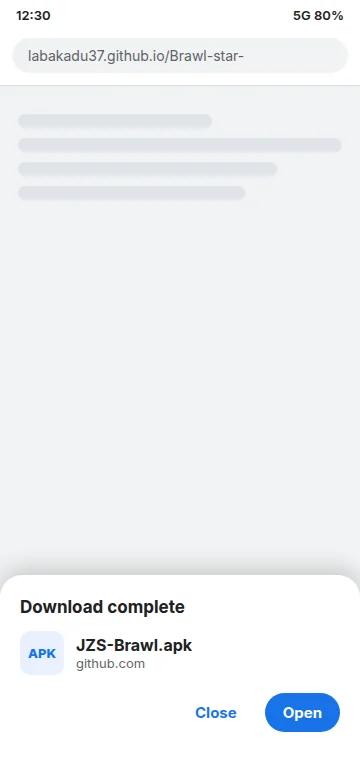
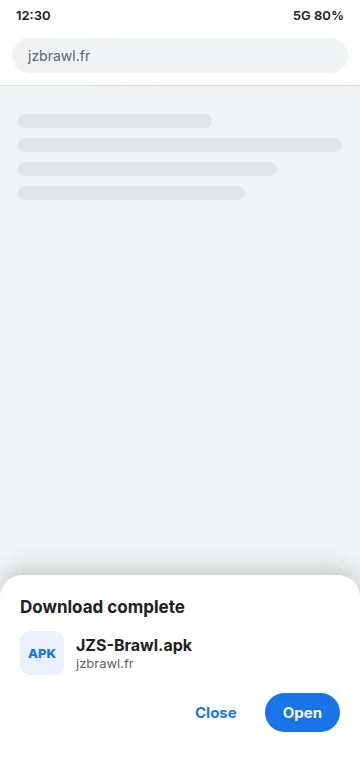
Host the site on jzbrawl.fr with the mod served from the VPS
Download buttons now fetch /download/JZS-Brawl.apk from the same
server, link previews and canonical URL use https://jzbrawl.fr, and
install step 1 shows the new address. Adds the nginx site config and
replaces the GitHub Pages notes in the README with VPS steps.

Claude-Session: https://claude.ai/code/session_019gChuSSonXakwMV75F9BU3

Changed region(s): [[0.0917, 0.0605, 0.6722, 0.0908], [0.2139, 0.8474, 0.3972, 0.9079]]

diff --git a/docs/index.html b/docs/index.html
@@ -11,12 +11,13 @@
 <meta property="og:locale" content="en_US">
 <meta property="og:title" content="JZS Brawl APK – Brawl Stars Mod">
 <meta property="og:description" content="Download the latest JZS Brawl for Android. Mod menu, FPS counter, Supercell ID login.">
-<meta property="og:url" content="https://labakadu37.github.io/Brawl-star-/">
-<meta property="og:image" content="https://labakadu37.github.io/Brawl-star-/preview.jpg">
+<meta property="og:url" content="https://jzbrawl.fr/">
+<link rel="canonical" href="https://jzbrawl.fr/">
+<meta property="og:image" content="https://jzbrawl.fr/preview.jpg">
 <meta property="og:image:width" content="1200">
 <meta property="og:image:height" content="630">
 <meta name="twitter:card" content="summary_large_image">
-<meta name="twitter:image" content="https://labakadu37.github.io/Brawl-star-/preview.jpg">
+<meta name="twitter:image" content="https://jzbrawl.fr/preview.jpg">
 <link rel="icon" type="image/png" sizes="32x32" href="favicon-32x32.png">
 <link rel="icon" type="image/png" sizes="16x16" href="favicon-16x16.png">
 <link rel="icon" type="image/png" sizes="192x192" href="android-chrome-192x192.png">
@@ -240,7 +241,7 @@ section{padding:90px 0}
     <img class="app-icon" src="img/logo.png" alt="JZS Brawl logo" width="160" height="160">
     <p>Supercell&rsquo;s <a href="https://supercell.com/en/games/brawlstars/">Brawl Stars</a> is so popular that it has lots of modded versions. One of them is <strong>JZS Brawl</strong>. It gives you a mod menu right inside the game, an FPS counter at the top of the screen, and you can log in with your Supercell ID account. It&rsquo;s all about making your game look and feel exactly how you like it.</p>
     <p>Welcome, brawlers! Here on the official <strong>JZS Brawl</strong> site you&rsquo;ll find everything about the mod: its features, how to install it, how it differs from Brawl Stars and, above all, its latest version.</p>
-    <p><a class="btn" href="https://github.com/Labakadu37/Brawl-star-/releases/latest/download/JZS-Brawl.apk" data-download><svg viewBox="0 0 24 24" fill="none" stroke="currentColor" stroke-width="2.4" stroke-linecap="round" stroke-linejoin="round"><path d="M12 3v12m0 0-5-5m5 5 5-5M4 21h16"/></svg>Download Now (APK)</a></p>
+    <p><a class="btn" href="/download/JZS-Brawl.apk" data-download download><svg viewBox="0 0 24 24" fill="none" stroke="currentColor" stroke-width="2.4" stroke-linecap="round" stroke-linejoin="round"><path d="M12 3v12m0 0-5-5m5 5 5-5M4 21h16"/></svg>Download Now (APK)</a></p>
     <p class="note">Note: JZS Brawl latest version <strong>v69.252</strong> is now available on Android.</p>
   </div>
 </div>
@@ -276,7 +277,7 @@ section{padding:90px 0}
   <div class="inner center">
     <h2>Core Features of JZS Brawl</h2>
     <p class="narrow">So why do Brawl fans like JZS Brawl? Here are its core features:</p>
-    <p><a class="btn light" href="https://github.com/Labakadu37/Brawl-star-/releases/latest/download/JZS-Brawl.apk" data-download>Download Now</a></p>
+    <p><a class="btn light" href="/download/JZS-Brawl.apk" data-download download>Download Now</a></p>
     <div class="slider" aria-roledescription="carousel" aria-label="JZS Brawl previews">
       <div class="slides" tabindex="0">
         <figure><img src="img/galerie-1.webp" alt="JZS Brawl in game" width="700" height="300"><figcaption>JZS Brawl in game</figcaption></figure>
@@ -426,7 +427,7 @@ section{padding:90px 0}
     <p>Installing JZS Brawl on Android is easy and only takes a few steps. If it&rsquo;s your first time, follow the guide below:</p>
     <h3>Step-by-step Guide</h3>
     <ol class="steps">
-      <li>Download the JZS Brawl APK with the <a href="https://github.com/Labakadu37/Brawl-star-/releases/latest/download/JZS-Brawl.apk" data-download>Download</a> button on this page.
+      <li>Download the JZS Brawl APK with the <a href="/download/JZS-Brawl.apk" data-download download>Download</a> button on this page.
         <img class="step-img" src="img/install-1.webp" alt="JZS-Brawl.apk download complete" width="360" height="760" loading="lazy"></li>
       <li>Open your file manager or browser, go to the Downloads folder and tap the JZS Brawl APK.</li>
       <li>If it&rsquo;s your first time, your phone shows a warning saying it isn&rsquo;t allowed to install unknown apps from this source.
@@ -487,7 +488,7 @@ section{padding:90px 0}
     <span class="label" style="margin-top:50px">Verdict</span>
     <h2 class="center">Conclusion</h2>
     <p class="center">JZS Brawl is Brawl Stars with an in-game mod menu, an FPS counter and Supercell ID login, all for free. Download it, join the Telegram for updates and come play with us in the club.</p>
-    <p class="center"><a class="btn" href="https://github.com/Labakadu37/Brawl-star-/releases/latest/download/JZS-Brawl.apk" data-download>Download Now</a></p>
+    <p class="center"><a class="btn" href="/download/JZS-Brawl.apk" data-download download>Download Now</a></p>
   </div>
 </section>
 
@@ -529,7 +530,7 @@ section{padding:90px 0}
 
 <script>
 // Direct download link for the mod: change it here and every button follows.
-var DOWNLOAD_URL = 'https://github.com/Labakadu37/Brawl-star-/releases/latest/download/JZS-Brawl.apk';
+var DOWNLOAD_URL = '/download/JZS-Brawl.apk';
 document.querySelectorAll('[data-download]').forEach(function (a) { a.href = DOWNLOAD_URL; });
 
 (function () {

diff --git a/README.md b/README.md
@@ -65,22 +65,22 @@ permission.
 
 ## Site
 
-`docs/` also holds the English site (`docs/index.html`, same layout as
-bsdbrawl.org): hero, download button, features, install guide, FAQ,
-Telegram and Brawl Stars club links.
+`docs/` holds the English site for https://jzbrawl.fr (`docs/index.html`,
+same layout as bsdbrawl.org): hero, download button, features, install
+guide, FAQ, Telegram and Brawl Stars club links.
 
-- Hosting: Settings → Pages → *Deploy from a branch* → pick this branch
-  and the `/docs` folder. The site goes live at
-  `https://labakadu37.github.io/Brawl-star-/`.
-- Download button: every button points to
-  `releases/latest/download/JZS-Brawl.apk`, so the file downloads
-  directly. Create a release (Releases → *Draft a new release*) and attach
-  the mod named exactly `JZS-Brawl.apk`. A newer release later updates the
-  buttons automatically. To use another host, change `DOWNLOAD_URL` at the
-  bottom of `index.html`.
-- Images: `docs/img/` (logo, in-game screenshot, gallery crops, install
-  steps). Replace a file with one of the same name to swap it.
-  `docs/preview.jpg` is the link preview shown on Telegram/Discord.
+Hosting on the VPS (nginx):
+
+1. Copy the contents of `docs/` to `/var/www/jzbrawl.fr/`.
+2. Put the mod at `/var/www/jzbrawl.fr/download/JZS-Brawl.apk`. Every
+   download button points there, so uploading a new file with the same
+   name updates the site.
+3. Install `deploy/jzbrawl.fr.conf` as an nginx site, reload nginx, then
+   `sudo certbot --nginx -d jzbrawl.fr -d www.jzbrawl.fr` for HTTPS.
+
+Images live in `docs/img/` (logo, in-game screenshot, gallery crops,
+install steps); replace a file with one of the same name to swap it.
+`docs/preview.jpg` is the link preview shown on Telegram/Discord.
 
 ## Legal
 
